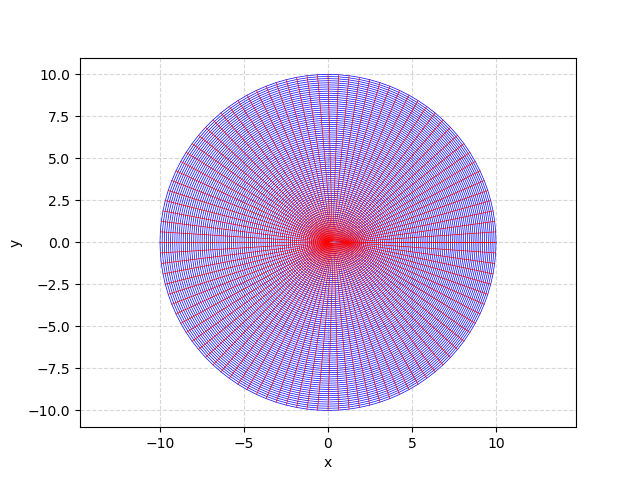
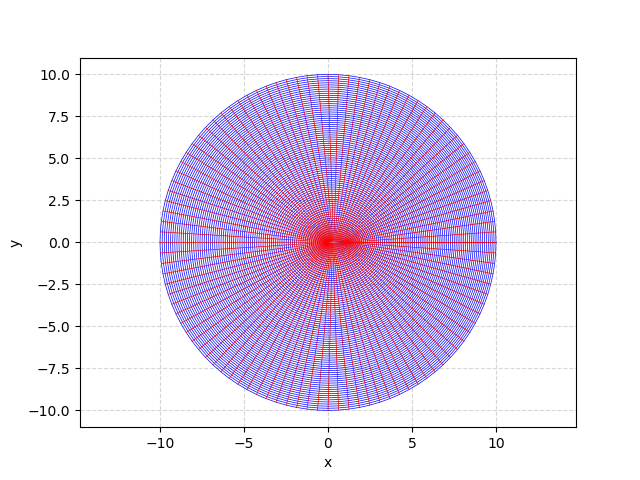
Added zoomed views

Changed region(s): [[0.3125, 0.1875, 0.75, 0.8125]]

diff --git a/Bonus_Assignment/airfoil.py b/Bonus_Assignment/airfoil.py
@@ -16,23 +16,17 @@ def load_airfoil_data(filename):
 
 
 def parametric_interpolation(x, y, num_points=200):
-    """Interpolates the airfoil as a single continuous curve using parametric cubic splines."""
-    # Ensure the trailing edge is smoothly tapered
-    if x[0] != x[-1] or y[0] != y[-1]:
-        # Average the y-coordinates of the first and last points to ensure a smooth trailing edge
-        y_te = (y[0] + y[-1]) / 2
-        x = np.append(x, x[0])  # Close the loop by appending the first point
-        y = np.append(y, y_te)  # Use the averaged y-coordinate for the trailing edge
 
-    # Ensure the first and last y values are identical for periodic boundary conditions
-    y[-1] = y[0]  # Force the last y value to match the first
+    # Append the last point also to the front to close the trailing edge
+    x = np.append(x[-1], x)
+    y = np.append(y[-1], y) 
 
-    # Create a parameter t based on the index
+    # Create a parameter t based on cumulative distance
     t = np.linspace(0, 1, len(x))
 
-    # Create cubic splines for both x(t) and y(t) with periodic boundary conditions
-    cs_x = CubicSpline(t, x, bc_type="periodic")
-    cs_y = CubicSpline(t, y, bc_type="periodic")
+    # Create cubic splines for both x(t) and y(t)
+    cs_x = CubicSpline(t, x, bc_type="clamped")  # Clamped boundary for smooth merging
+    cs_y = CubicSpline(t, y, bc_type="clamped")
 
     # Generate smooth parametric values
     t_new = np.linspace(0, 1, num_points)

diff --git a/Bonus_Assignment/tfi.py b/Bonus_Assignment/tfi.py
@@ -38,7 +38,21 @@ def plot_grid(x, y, name):
     plt.ylabel("y")
     plt.grid(linestyle="--", alpha=0.5)
     plt.savefig(name)
-    plt.show()
+    #plt.show()
+    plt.close()
+    # Zoomed View
+    plt.figure()
+    plt.plot(x, y, "b-", linewidth=0.5)
+    plt.plot(x.T, y.T, "r-", linewidth=0.5)
+    plt.axis("equal")
+    plt.xlabel("x")
+    plt.ylabel("y")
+    plt.grid(linestyle="--", alpha=0.5)
+    plt.xlim(0, 1)
+    plt.ylim(-0.5, 0.5)
+    plt.savefig("zoomed_"+name)
+    #plt.show()
+    plt.close()
 
 
 if __name__ == "__main__":

diff --git a/Bonus_Assignment/elliptic_grid_generation.py b/Bonus_Assignment/elliptic_grid_generation.py
@@ -15,7 +15,7 @@ def coeff(x, y, ξ, η):
     return a, b, c
 
 
-def GS_iterartion(x, y, ξ, η, max_iter=1000, tolerance=1e-6):
+def GS_iterartion(x, y, ξ, η, max_iter=1000, tolerance=1e-10):
     x_new, y_new = np.copy(x), np.copy(y)
     a, b, c = coeff(x, y, ξ, η)
     Δξ = ξ[1] - ξ[0]
